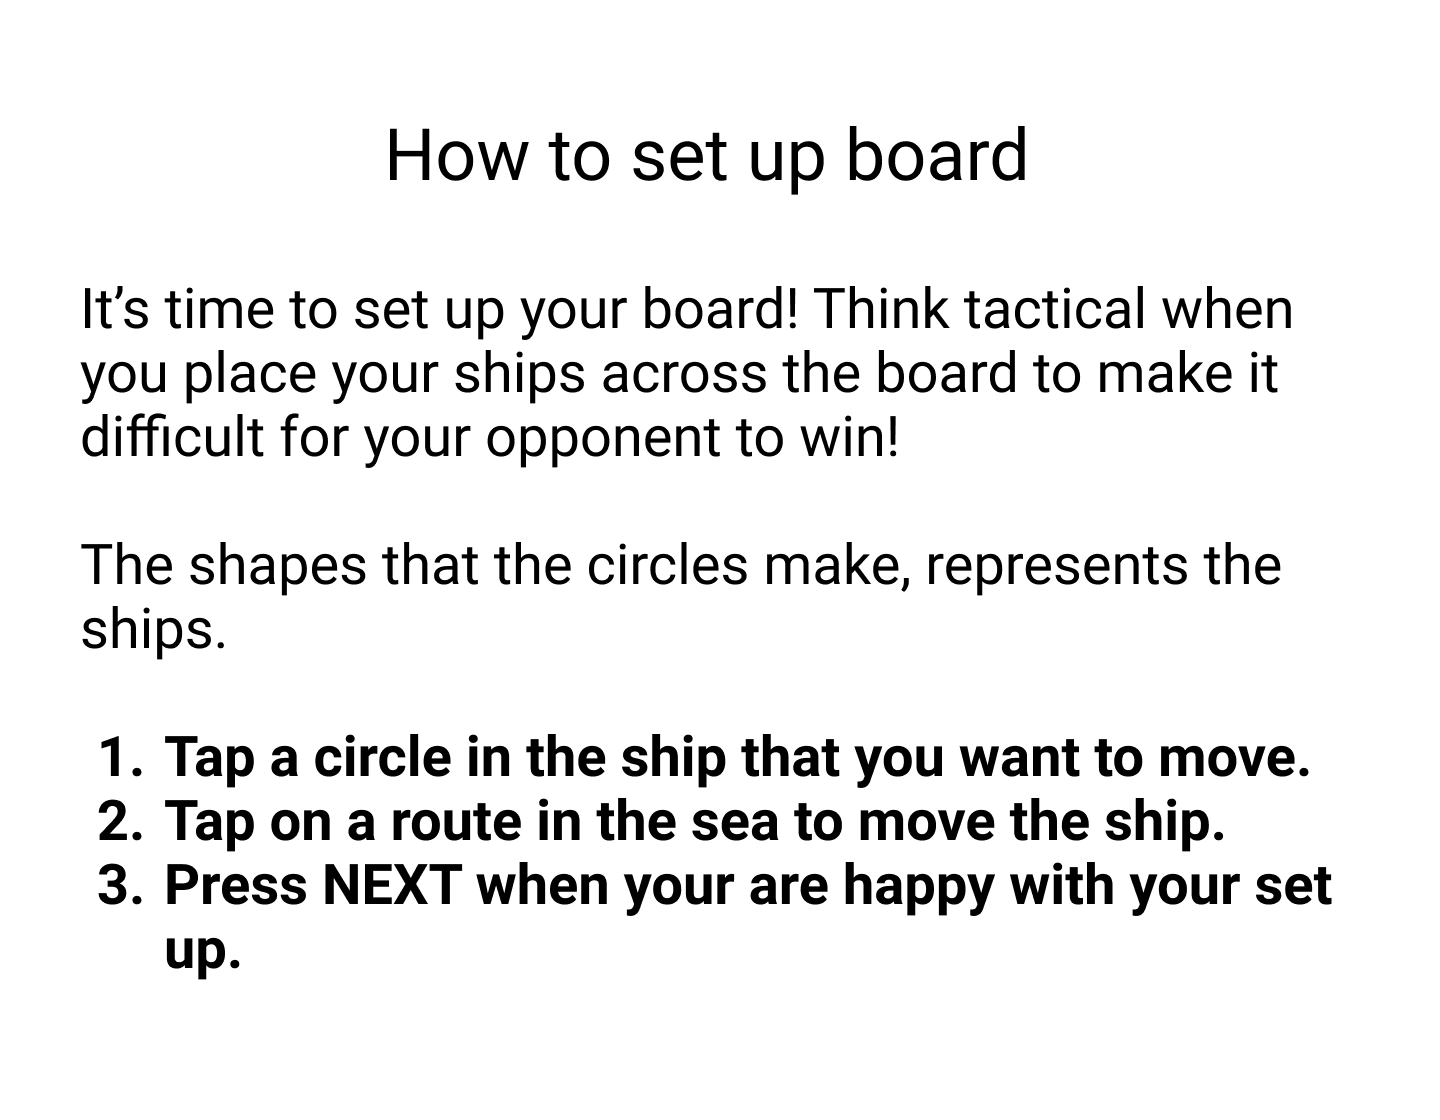
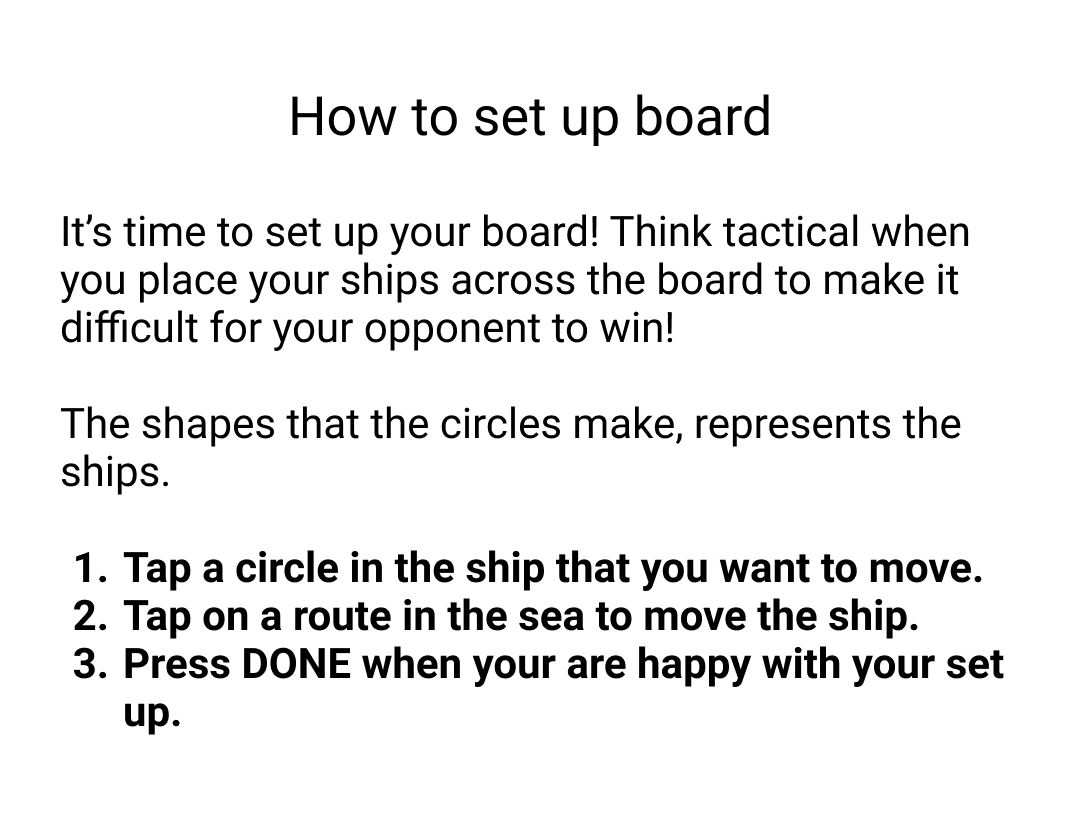
design finish touches

diff --git a/core/src/com/mygdx/game/view/PlayView.java b/core/src/com/mygdx/game/view/PlayView.java
@@ -1,11 +1,14 @@
 package com.mygdx.game.view;//package com.mygdx.game.view; //endret
 
 import com.badlogic.gdx.Gdx;
+import com.badlogic.gdx.graphics.Color;
 import com.badlogic.gdx.graphics.Texture;
 import com.badlogic.gdx.graphics.g2d.BitmapFont;
 import com.badlogic.gdx.graphics.g2d.SpriteBatch;
+import com.badlogic.gdx.math.Vector3;
 import com.mygdx.game.Battleships;
 import com.mygdx.game.controller.GameStateController;
+import com.mygdx.game.model.ScoreBoard;
 
 public class PlayView extends  State implements FeedbackDelay{
 
@@ -15,7 +18,12 @@ public class PlayView extends  State implements FeedbackDelay{
     private GameBoardView gameBoardView;
     //private Board opponentBoard;
     private BitmapFont font = new BitmapFont(); //or use alex answer to use custom font
+    private BitmapFont turn = new BitmapFont();
     private boolean feedback = false;
+    private Texture logo;
+    private ButtonView tutorialButton;
+    private TutorialView TutorialView;
+    private Texture missed;
 
 
     /**
@@ -24,7 +32,10 @@ public class PlayView extends  State implements FeedbackDelay{
     public PlayView(GameStateManager gsm, GameStateController gsc){
         super(gsm, gsc);
         background = new Texture("background3.jpeg");
+        logo = new Texture("logo.png");
+        missed = new Texture("missed.png");
         this.gameBoardView = new GameBoardView();
+        tutorialButton = new ButtonView("tutorial1.png", Battleships.WIDTH/2+380, 135,250,100);
         //Battleships.firebaseConnector.sendBoard(player.getBoard().getOpponentBoard());
         //må gjøre om til minuslista senere
         gsc.setOpponentBoard(gsc.getBoardController().createBoardFromOpponent(gsc.getOpponentBoardFromFirebase(), gsc.getPlayer().getBoard().getSidemargin()));
@@ -39,10 +50,18 @@ public class PlayView extends  State implements FeedbackDelay{
     @Override
     protected void handleInput() {
         if (Gdx.input.justTouched()) {
+            Vector3 touch = new Vector3(Gdx.input.getX(), Battleships.HEIGHT-Gdx.input.getY(), 0);
+
+            if(tutorialButton.getRectangle().contains(touch.x, touch.y)) {
+                TutorialView = new TutorialView(gsm, gsc);
+                gsm.push(TutorialView);
+            }
+
             x_position = Gdx.input.getX();
             y_position = Gdx.input.getY();
             gsc.shoot(gsc.getIndex(x_position, y_position));
-
+            gsc.getScoreBoard().setBoardList(gsc.getOpponentBoard().getBoard());
+            gsc.getScoreBoardController().updateScore(gsc.getScoreBoard());
         }
         if (gsc.isFinished()){
             gsc.getScoreBoard().setBoardList(gsc.getOpponentBoard().getBoard());
@@ -55,12 +74,11 @@ public class PlayView extends  State implements FeedbackDelay{
         til controlleren. Controlleren vil videre regne ut hvilket rutenummer det er og sende dette
         Board model.
          */
-
-
     }
 
     @Override
     public void update(float dt) {
+
         handleInput();
         gsc.updateShot();
     }
@@ -73,12 +91,18 @@ public class PlayView extends  State implements FeedbackDelay{
 
         sb.begin();
         sb.draw(background, 0, 0, Battleships.WIDTH, Battleships.HEIGHT);
+        sb.draw(logo, Battleships.WIDTH/2+220, Battleships.HEIGHT-400, 600, 600);
         font.getData().setScale(3, 3);
-        font.draw(sb, gsc.turn(), Battleships.WIDTH/2 + 100, Battleships.HEIGHT / 2-200);
-        font.draw(sb, "/ - Means you have missed", Battleships.WIDTH / 2 + 100, Battleships.HEIGHT / 2);
-        font.draw(sb, "X - Means you have hit the opponents ship!", Battleships.WIDTH / 2 + 100, Battleships.HEIGHT / 2 + 50);
-        if (feedback) {
-            font.draw(sb, "You missed! Opponents turn!", Battleships.WIDTH / 2 + 100, Battleships.HEIGHT / 2 - 150);
+        turn.getData().setScale(4, 4);
+        //font.setColor(Color.BLACK);
+        turn.setColor(Color.BLACK);
+        turn.draw(sb, gsc.turn(), Battleships.WIDTH/2+310, 760);
+        turn.draw(sb, "Your score: " + gsc.getScoreBoard().getScore() , Battleships.WIDTH / 2 + 310, 590);
+        font.draw(sb, "/ - Represents MISS", Battleships.WIDTH / 2 + 320, 420);
+        font.draw(sb, "X - Represents HIT", Battleships.WIDTH / 2 + 320, 370);
+        sb.draw(tutorialButton.getTexture(),tutorialButton.Buttonx,tutorialButton.Buttony,tutorialButton.Width,tutorialButton.Height);
+        if(feedback){
+            sb.draw(missed, Battleships.WIDTH/2+40, 40,280,200);
         }
         sb.end();
         gameBoardView.drawBoardView(gsc.myTurn, gsc.getBoard());

diff --git a/core/src/com/mygdx/game/view/MakeBoardView.java b/core/src/com/mygdx/game/view/MakeBoardView.java
@@ -55,15 +55,11 @@ public class MakeBoardView extends State implements Feedback{
 
         background = new Texture("background3.jpeg");
         playGame = new ButtonView("Settings.png",Battleships.WIDTH/2-100, Battleships.HEIGHT/2-100,200,75);
-        next = new ButtonView("next.png", Battleships.WIDTH/2+650, 90, 250, 95);
+        next = new ButtonView("done.png", Battleships.WIDTH/2+650, 90, 250, 95);
         logo = new Texture("logo.png");
         setUpTutorial = new Texture("BoardSetup.png");
         font = new BitmapFont();
         wrongButton = new ButtonView("notpossible.png",Battleships.WIDTH/2+40, 40,280,200);
-        wrongButton = new ButtonView("wrong.png",Battleships.WIDTH/2+100, Battleships.HEIGHT-500,200,200);
-        rightButton = new ButtonView("OK.png",Battleships.WIDTH/2+100, Battleships.HEIGHT-500,200,200);
-        notValidMove = new Texture("notvalid.png");
-        System.out.println("Blir dataen sendt med videre? " + gsc.getPlayer());
         GameStateController.addFeedbackListener(this);
 
 
@@ -140,7 +136,7 @@ public class MakeBoardView extends State implements Feedback{
     public void render(SpriteBatch sb) {
         sb.begin();
         sb.draw(background, 0, 0, Battleships.WIDTH, Battleships.HEIGHT);
-        sb.draw(logo, Battleships.WIDTH/2+250, Battleships.HEIGHT-300, 400, 400);
+        sb.draw(logo, Battleships.WIDTH/2+260, Battleships.HEIGHT-260, 400, 400);
         sb.draw(setUpTutorial, Battleships.WIDTH/2+100, 230, 850, 780);
         sb.draw(next.getTexture(),next.Buttonx,next.Buttony,next.Width, next.Height);
         if(!bool){

diff --git a/core/src/com/mygdx/game/view/TutorialView.java b/core/src/com/mygdx/game/view/TutorialView.java
@@ -25,7 +25,7 @@ public class TutorialView extends State{
         logo = new Texture("cover.png");
         background = new Texture("background4.jpeg");
         tutorial = new BitmapFont();
-        gamerules = new Texture("GameRules.png");
+        gamerules = new Texture("GameRules1.png");
         backButton = new ButtonView("left-arrow.png", 50, Battleships.HEIGHT-120, 100, 100);
     }
 
@@ -51,12 +51,12 @@ public class TutorialView extends State{
     public void render(SpriteBatch sb) {
         sb.begin();
         sb.draw(background, 0,0, Battleships.WIDTH, Battleships.HEIGHT);
-        sb.draw(logo,0,-10,500,200);
+        sb.draw(logo,0,-35,500,200);
         tutorial.getRegion().getTexture().setFilter(Texture.TextureFilter.Linear, Texture.TextureFilter.Linear);
         tutorial.getData().setScale(4,4);
         tutorial.draw(sb,"How to play battleships", Battleships.WIDTH/2-300,Battleships.HEIGHT-70);
         sb.draw(backButton.getTexture(),backButton.Buttonx,backButton.Buttony,backButton.Width,backButton.Height);
-        sb.draw(gamerules, Battleships.WIDTH/2-750,35,1700,1000 );
+        sb.draw(gamerules, Battleships.WIDTH/2-750,80,1700,1000);
         sb.end();
 
     }

diff --git a/core/src/com/mygdx/game/controller/ScoreBoardController.java b/core/src/com/mygdx/game/controller/ScoreBoardController.java
@@ -18,6 +18,7 @@ public class ScoreBoardController {
     public static HashMap<String, Integer> printScoreboard = new HashMap<>();
 
     public void calculateScore(ScoreBoard scoreBoard){
+        scoreBoard.setScore(0);
         for (List<Integer> board : scoreBoard.getBoardList()){
             for (Integer b : board){
                 if (b == 2){
@@ -61,7 +62,10 @@ public class ScoreBoardController {
         System.out.println("Controller: " + printScoreboard);
     }
 
-
+    public void updateScore(ScoreBoard scoreboard){
+        //gsc.getScoreBoard().setBoardList(gsc.getOpponentBoard().getBoard());
+        calculateScore(scoreboard);
+    }
 
     private void sortScoreboard(){
         List<Map.Entry<String, Integer> > list =

diff --git a/core/src/com/mygdx/game/view/LoadingView.java b/core/src/com/mygdx/game/view/LoadingView.java
@@ -118,7 +118,7 @@ public class LoadingView extends State {
         sb.draw(getTexture(),Battleships.WIDTH/2-175,Battleships.HEIGHT/2-50,350,300);
         font.getRegion().getTexture().setFilter(Texture.TextureFilter.Linear, Texture.TextureFilter.Linear);
         font.getData().setScale(3,3);
-        font.draw(sb,"Waiting for another player to join", Battleships.WIDTH/2-100,300);
+        font.draw(sb,"Waiting for opponent", Battleships.WIDTH/2-200,300);
         sb.end();
     }
 

diff --git a/core/src/com/mygdx/game/view/InitializeGameView.java b/core/src/com/mygdx/game/view/InitializeGameView.java
@@ -32,7 +32,7 @@ public class InitializeGameView extends State{
         background = new Texture("background1.jpg");
         font = new BitmapFont();
         nextButton = new ButtonView("next.png", Battleships.WIDTH/2-150, Battleships.HEIGHT/2-50,300,100);
-        loginButton = new ButtonView("Login.png", Battleships.WIDTH/2-150, Battleships.HEIGHT/2,300,110);
+        loginButton = new ButtonView("username.png", Battleships.WIDTH/2-200, Battleships.HEIGHT/2,420,110);
 
     }
 

diff --git a/core/src/com/mygdx/game/controller/GameStateController.java b/core/src/com/mygdx/game/controller/GameStateController.java
@@ -236,9 +236,9 @@ public class GameStateController {
 
     public String turn(){
         if (myTurn){
-            return "Now you can shoot";
+            return "Now you can shoot!";
         }
-        return "It's opponents turn, they can shoot!";
+        return "Opponents turn!";
     }
 
 

diff --git a/core/src/com/mygdx/game/view/GameFinishedView.java b/core/src/com/mygdx/game/view/GameFinishedView.java
@@ -55,7 +55,7 @@ public class GameFinishedView extends State {
 
     @Override
     public void update(float dt) {
-
+        handleInput();
     }
 
     @Override
